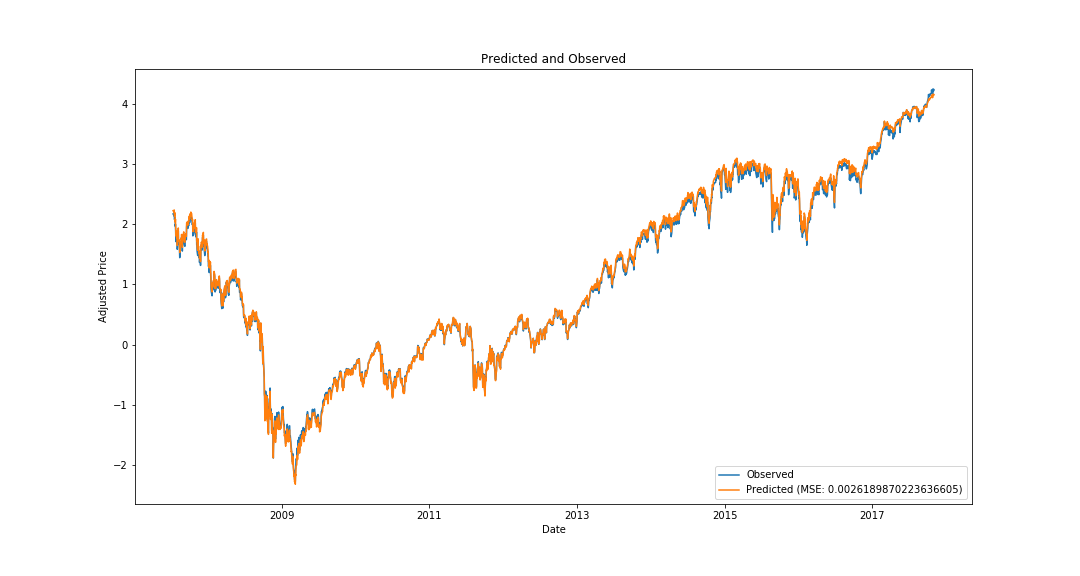
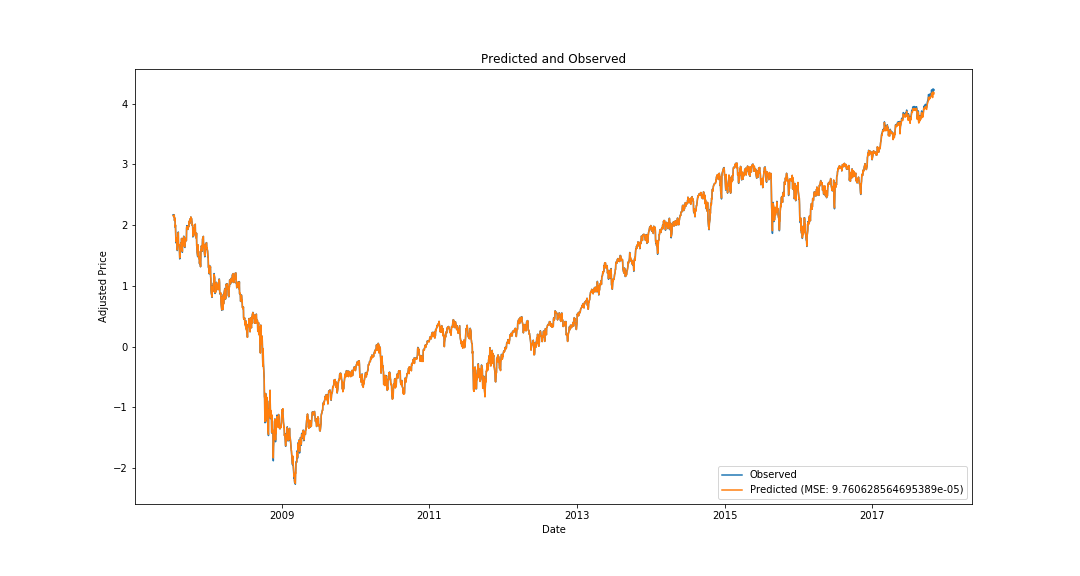
Fix random seed issue

diff --git a/Examples and Tutorials/Tensorflow LSTM/index.md b/Examples and Tutorials/Tensorflow LSTM/index.md
@@ -236,6 +236,8 @@ n_iterations = 1500
 batch_size = 100
 
 with graph.as_default() as g:
+    tf.set_random_seed(seed)
+    np.random.seed(seed)
     loss = tf.reduce_mean(tf.square(outputs - y))
     optimizer = tf.train.AdamOptimizer(learning_rate = learning_rate)
     training_op = optimizer.minimize(loss)
@@ -245,16 +247,18 @@ with graph.as_default() as g:
     with tf.Session(graph = graph) as sess:
         init.run()
         for iteration in range(n_iterations):
-            X_batch, y_batch = make_training_sequences(training_data, batch_size, n_steps, seed)
+            X_batch, y_batch = make_training_sequences(training_data,
+                                batch_size, n_steps, seed + iteration)
             sess.run(training_op, feed_dict = {X: X_batch, y: y_batch})
             if iteration % 100 == 0:
                 mse = loss.eval(feed_dict = {X: X_batch, y: y_batch})
                 print(iteration, "\tMSE:", mse)
         saver.save(sess, './{}'.format(save_name))
+
 ```
 
 With the settings above on a moderately powerful machine, the training process
-takes ~5 minutes, and the model converges to a MSE of about 0.0016. The trained
+takes ~5 minutes, and the model converges to a MSE of about 0.0013. The trained
 model is saved to `tf_sp500_lstm`.
 
 Generating predictions with the model is straightforward:
@@ -316,3 +320,6 @@ plot_predict_date(split_date, sp500['Adjusted Normalized Close'], steps_forward 
 ```
 
 ![Predicted vs Observed, Test Data](images/example_observed_vs_predicted_2007-06-01.png)
+
+We've achieved a MSE of 9.75e-5 on our test data, which is pretty good
+given that the model was only trained on pre-crisis data.
